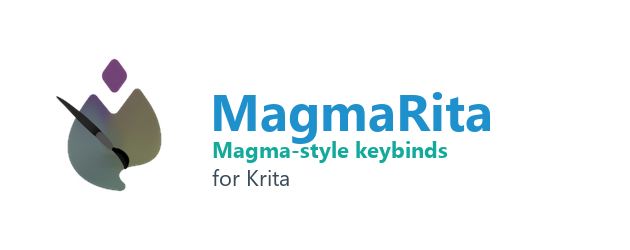
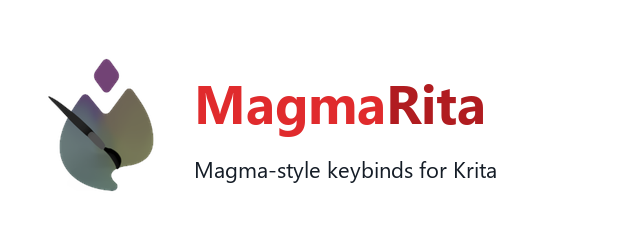
Branding: red wordmark, fixed title/tagline spacing, higher contrast

Changed region(s): [[0.3016, 0.336, 0.7841, 0.756], [0.0603, 0.224, 0.2714, 0.784]]

diff --git a/tools/make_branding_from_mark.py b/tools/make_branding_from_mark.py
@@ -1,18 +1,17 @@
 #!/usr/bin/env python3
 # SPDX-License-Identifier: GPL-3.0-or-later
-"""Rebuild every MagmaRita branding PNG from your own hand-drawn mark.
+"""Rebuild every MagmaRita branding PNG from your hand-drawn mark.
 
-1. Draw the mark in Krita on a SQUARE canvas (2048x2048 recommended), with a
-   transparent background, and export it as:
-        assets/branding/source/mark.png
-2. Run:
-        python tools/make_branding_from_mark.py
+1. Draw the mark in Krita (square canvas, transparent) and export it to
+   assets/branding/source/mark.png
+2. Run:  python tools/make_branding_from_mark.py
 
-Regenerates: all icon sizes, the horizontal logo, the wordmark, the itch.io
-cover (630x250) and the GitHub social preview (1280x640).
+Produces: icon sizes (never upscaled), horizontal logo, wordmark, itch cover
+(630x250), GitHub social (1280x640), a vector trace and a preview board.
 """
 
 import os
+import sys
 
 from PIL import Image, ImageDraw, ImageFont
 
@@ -20,105 +19,127 @@ ROOT = os.path.dirname(os.path.dirname(os.path.abspath(__file__)))
 OUT = os.path.join(ROOT, "assets", "branding")
 SRC = os.path.join(OUT, "source", "mark.png")
 
-BLUE_TXT = (30, 145, 205)
-TEAL_TXT = (20, 170, 155)
-INK = (58, 74, 90)
-WHITE = (255, 255, 255)
+RED = (224, 43, 45)        # wordmark
+RED_DEEP = (176, 28, 32)   # second half, for a bit of depth
+INK = (20, 28, 38)         # tagline: near-black for contrast
+BG = (255, 255, 255)
 FB = r"C:\Windows\Fonts\segoeuib.ttf"
 FR = r"C:\Windows\Fonts\segoeui.ttf"
-FL = r"C:\Windows\Fonts\segoeuil.ttf"
 ICON_SIZES = (1024, 512, 256, 128, 64, 48, 32)
+TAGLINE = "Magma-style keybinds for Krita"
 
 
 def _normalise(im):
-    """Trim transparent borders and centre the mark on a square canvas.
-
-    Layout only - the artwork itself is untouched.
-    """
     bbox = im.getbbox()
     if bbox:
         im = im.crop(bbox)
     w, h = im.size
-    side = max(int(max(w, h) * 1.14), 64)     # ~7% margin all round
+    side = max(int(max(w, h) * 1.14), 64)
     out = Image.new("RGBA", (side, side), (0, 0, 0, 0))
     out.paste(im, ((side - w) // 2, (side - h) // 2), im)
     return out
 
 
 def load_mark():
-    if os.path.exists(SRC):
-        print("using", SRC)
-        return _normalise(Image.open(SRC).convert("RGBA"))
-    fallback = os.path.join(OUT, "magmarita-icon-1024.png")
-    print("! %s not found - using %s as placeholder" % (SRC, fallback))
-    return _normalise(Image.open(fallback).convert("RGBA"))
+    path = SRC if os.path.exists(SRC) else os.path.join(OUT, "magmarita-icon-218.png")
+    print("using", path)
+    return _normalise(Image.open(path).convert("RGBA"))
 
 
-def scaled(mark, size):
-    return mark.resize((size, size), Image.LANCZOS)
+def block_height(lines):
+    total = 0
+    for _t, f, _c, gap in lines:
+        a, d = f.getmetrics()
+        total += a + d + gap
+    return total
+
+
+def draw_block(d, x, y, lines):
+    for text, f, colour, gap in lines:
+        a, dd = f.getmetrics()
+        d.text((x, y), text, font=f, fill=colour + (255,), anchor="la")
+        y += a + dd + gap
+    return y
+
+
+def compose(mark, width, height, icon_px, title_px, sub_px, pad, tagline=True):
+    img = Image.new("RGBA", (width, height), BG + (255,))
+    icon_px = min(icon_px, mark.width)
+    icon = mark.resize((icon_px, icon_px), Image.LANCZOS)
+    img.paste(icon, (pad, (height - icon_px) // 2), icon)
+
+    f1 = ImageFont.truetype(FB, title_px)
+    parts = [("Magma", f1, RED), ("Rita", f1, RED_DEEP)]
+    lines = []
+    if tagline:
+        lines.append(("TITLE", f1, RED, int(title_px * 0.30)))
+        lines.append((TAGLINE, ImageFont.truetype(FR, sub_px), INK, 0))
+    else:
+        lines.append(("TITLE", f1, RED, 0))
+
+    x = pad + icon_px + int(pad * 0.7)
+    y = (height - block_height(lines)) // 2
+    d = ImageDraw.Draw(img)
+    for text, f, colour, gap in lines:
+        a, dd = f.getmetrics()
+        if text == "TITLE":
+            d.text((x, y), parts[0][0], font=f1, fill=RED + (255,), anchor="la")
+            d.text((x + f1.getlength(parts[0][0]), y), parts[1][0], font=f1,
+                   fill=RED_DEEP + (255,), anchor="la")
+        else:
+            d.text((x, y), text, font=f, fill=colour + (255,), anchor="la")
+        y += a + dd + gap
+    return img
 
 
 def main():
     mark = load_mark()
-    if not os.path.isdir(OUT):
-        os.makedirs(OUT)
+    os.makedirs(OUT, exist_ok=True)
 
     cap = mark.width
     sizes = sorted({s for s in ICON_SIZES if s <= cap} | {cap}, reverse=True)
-    print("source mark: %dpx -> generating icons %s (never upscaled)" % (cap, sizes))
+    print("source mark: %dpx -> icons %s (never upscaled)" % (cap, sizes))
     for size in sizes:
-        scaled(mark, size).save(os.path.join(OUT, "magmarita-icon-%d.png" % size))
-    scaled(mark, min(cap, 512)).save(os.path.join(OUT, "magmarita-icon.png"))
+        mark.resize((size, size), Image.LANCZOS).save(os.path.join(OUT, "magmarita-icon-%d.png" % size))
+    mark.resize((min(cap, 512), min(cap, 512)), Image.LANCZOS).save(os.path.join(OUT, "magmarita-icon.png"))
 
-    def wordmark(width, tagline=True):
-        ic = min(int(width * 0.20), mark.width)
-        icon = scaled(mark, ic)
-        f1 = ImageFont.truetype(FB, int(width * 0.115))
-        f2 = ImageFont.truetype(FL, int(width * 0.045))
-        tmp = ImageDraw.Draw(Image.new("RGBA", (10, 10)))
-        w1 = tmp.textlength("Magma", font=f1)
-        height = ic + int(width * 0.03)
-        img = Image.new("RGBA", (width, height), (0, 0, 0, 0))
-        img.paste(icon, (int(width * 0.03), (height - ic) // 2), icon)
-        x = int(width * 0.03) + ic + int(width * 0.03)
-        y = (height - int(width * 0.115)) // 2 - (int(width * 0.03) if tagline else 0)
-        d = ImageDraw.Draw(img)
-        d.text((x, y), "Magma", font=f1, fill=BLUE_TXT + (255,))
-        d.text((x + w1, y), "Rita", font=f1, fill=TEAL_TXT + (255,))
-        if tagline:
-            d.text((x + int(width * 0.004), y + int(width * 0.125)),
-                   "Magma-style keybinds for Krita", font=f2, fill=INK + (255,))
-        return img
+    compose(mark, 1200, 372, 240, 128, 46, 42).save(os.path.join(OUT, "magmarita-logo-horizontal.png"))
+    compose(mark, 1200, 300, 240, 140, 40, 42, tagline=False).save(os.path.join(OUT, "magmarita-wordmark.png"))
+    compose(mark, 630, 250, 150, 54, 22, 26).save(os.path.join(OUT, "itch-cover-630x250.png"))
+    compose(mark, 1280, 640, 300, 96, 36, 64).save(os.path.join(OUT, "github-social-1280x640.png"))
+    print("composed logo + wordmark + cover + social")
 
-    wordmark(1200).save(os.path.join(OUT, "magmarita-logo-horizontal.png"))
-    wordmark(1200, tagline=False).save(os.path.join(OUT, "magmarita-wordmark.png"))
+    # preview board so the layout can be eyeballed in one image
+    tiles = [
+        ("magmarita-logo-horizontal.png", 900),
+        ("magmarita-wordmark.png", 900),
+        ("github-social-1280x640.png", 900),
+        ("itch-cover-630x250.png", 630),
+    ]
+    ims = []
+    for name, w in tiles:
+        p = os.path.join(OUT, name)
+        if os.path.exists(p):
+            im = Image.open(p).convert("RGB")
+            ims.append((name, im.resize((w, int(im.height * w / im.width)), Image.LANCZOS)))
+    if ims:
+        pad, lab = 24, 30
+        W = max(i.width for _n, i in ims) + pad * 2
+        H = sum(i.height + lab + pad for _n, i in ims) + pad
+        board = Image.new("RGB", (W, H), (232, 235, 238))
+        d = ImageDraw.Draw(board)
+        f = ImageFont.truetype(FB, 17)
+        y = pad
+        for name, im in ims:
+            board.paste(im, (pad, y))
+            d.text((pad, y + im.height + 4), name, font=f, fill=(70, 80, 92))
+            y += im.height + lab + pad
+        board.save(os.path.join(OUT, "preview-logos.png"))
+        print("wrote preview-logos.png", board.size)
 
-    cover = Image.new("RGBA", (630, 250), WHITE + (255,))
-    it = scaled(mark, min(150, mark.width))
-    cover.paste(it, (34, 50), it)
-    d = ImageDraw.Draw(cover)
-    d.text((210, 74), "MagmaRita", font=ImageFont.truetype(FB, 52), fill=BLUE_TXT + (255,))
-    d.text((212, 134), "Magma-style keybinds", font=ImageFont.truetype(FB, 22), fill=TEAL_TXT + (255,))
-    d.text((212, 162), "for Krita", font=ImageFont.truetype(FR, 22), fill=INK + (255,))
-    cover.save(os.path.join(OUT, "itch-cover-630x250.png"))
-
-    social = Image.new("RGBA", (1280, 640), WHITE + (255,))
-    sb = scaled(mark, min(340, mark.width))
-    social.paste(sb, (110, 150), sb)
-    d = ImageDraw.Draw(social)
-    d.text((520, 205), "MagmaRita", font=ImageFont.truetype(FB, 104), fill=BLUE_TXT + (255,))
-    d.text((524, 330), "Magma-style keybinds & palette", font=ImageFont.truetype(FB, 38), fill=TEAL_TXT + (255,))
-    d.text((524, 378), "for Krita", font=ImageFont.truetype(FR, 38), fill=INK + (255,))
-    d.text((524, 452), "github.com/runicmelody/magmarita", font=ImageFont.truetype(FL, 30), fill=INK + (200,))
-    social.save(os.path.join(OUT, "github-social-1280x640.png"))
-
-    print("done - rebuilt icons + logo + cover + social")
-
-    # keep a vector copy in sync
     try:
         import subprocess
-        import sys as _sys
-        subprocess.run([_sys.executable, os.path.join(ROOT, "tools", "trace_logo.py"), SRC], check=False)
+        subprocess.run([sys.executable, os.path.join(ROOT, "tools", "trace_logo.py"), SRC], check=False)
     except Exception as exc:
         print("vector trace skipped:", exc)
 

diff --git a/tools/trace_logo.py b/tools/trace_logo.py
@@ -259,7 +259,7 @@ def main():
     w, h, alpha_mask, layers, ax, bx = prepare(src)
     print("tracing %s -> %dx%d, %d tonal layers" % (os.path.basename(src), w, h, len(layers)))
 
-    colours = _boost([c for c, _m, _n in layers], 2.0)
+    colours = _boost([c for c, _m, _n in layers], 2.6)
     cols, stops = gradient_stops(colours)
     print("gradient: %s -> %s" % ("#%02X%02X%02X" % cols[0], "#%02X%02X%02X" % cols[-1]))
     print("axis: dark %.0f,%.0f -> light %.0f,%.0f" % (ax[0], ax[1], bx[0], bx[1]))
